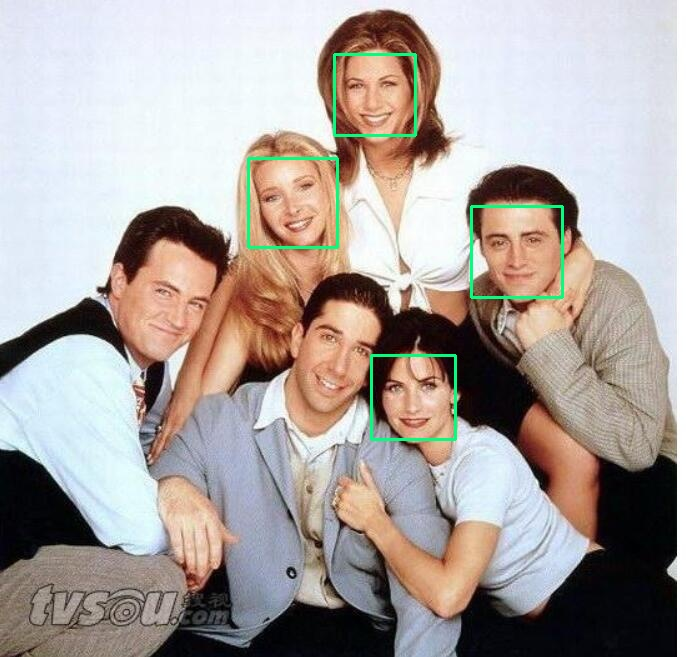
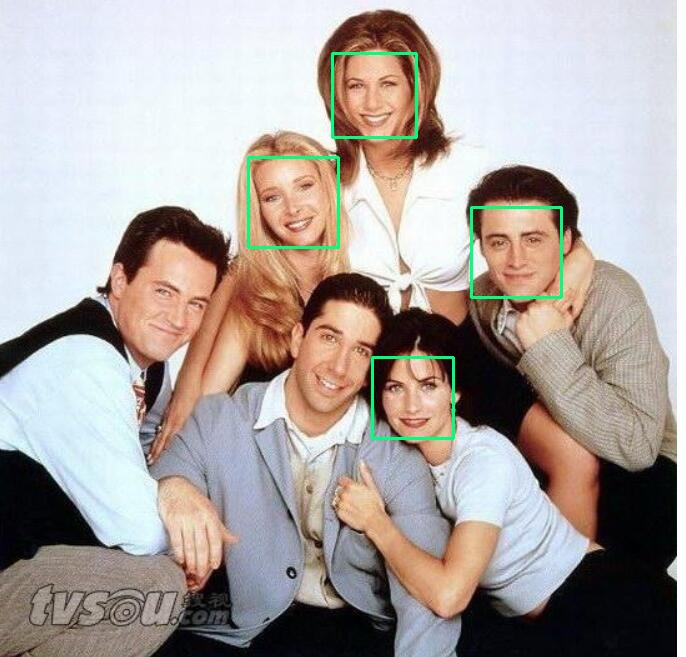
#

diff --git a/face_detection/find_face_solution1.py b/face_detection/find_face_solution1.py
@@ -2,7 +2,7 @@ import cv2
 
 def detect(path):
     img = cv2.imread(path)
-    cascade = cv2.CascadeClassifier("haarcascade_frontalface_alt.xml")
+    cascade = cv2.CascadeClassifier("haarcascade_frontalface_alt2.xml")
     rects = cascade.detectMultiScale(img, 1.3, 4, cv2.CASCADE_SCALE_IMAGE, (20,20))
 
     if len(rects) == 0:
